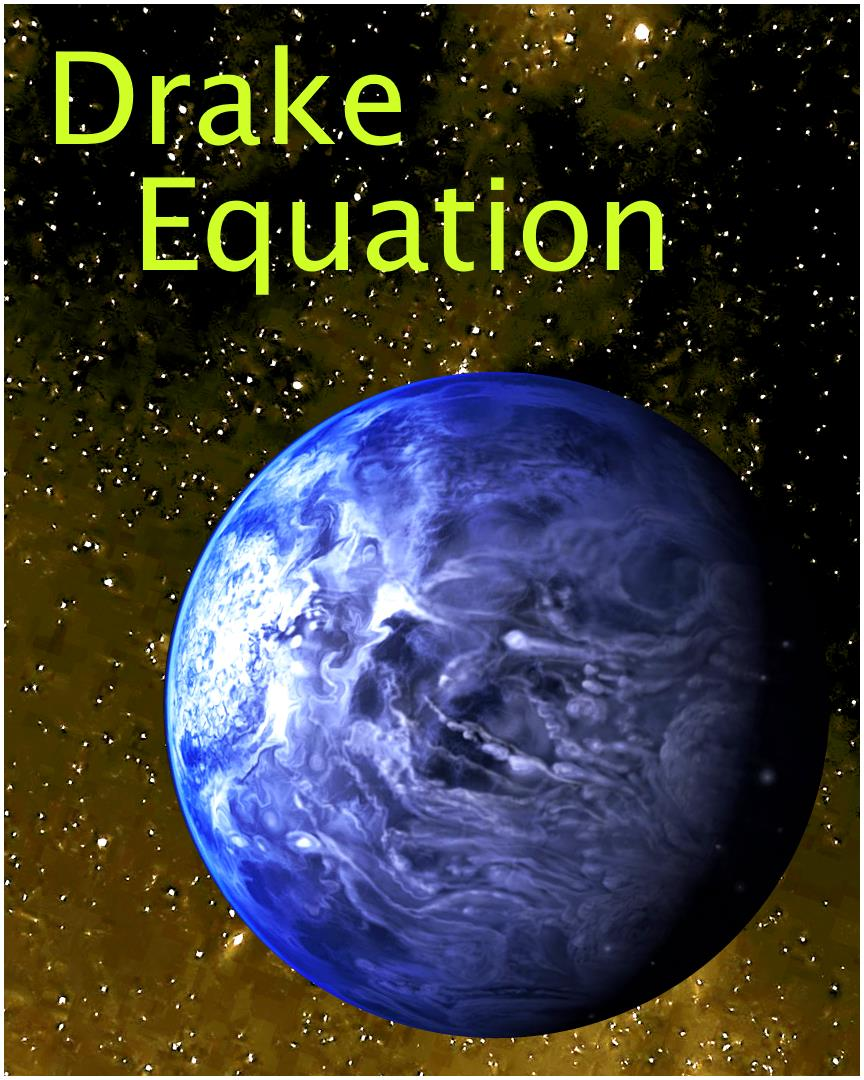
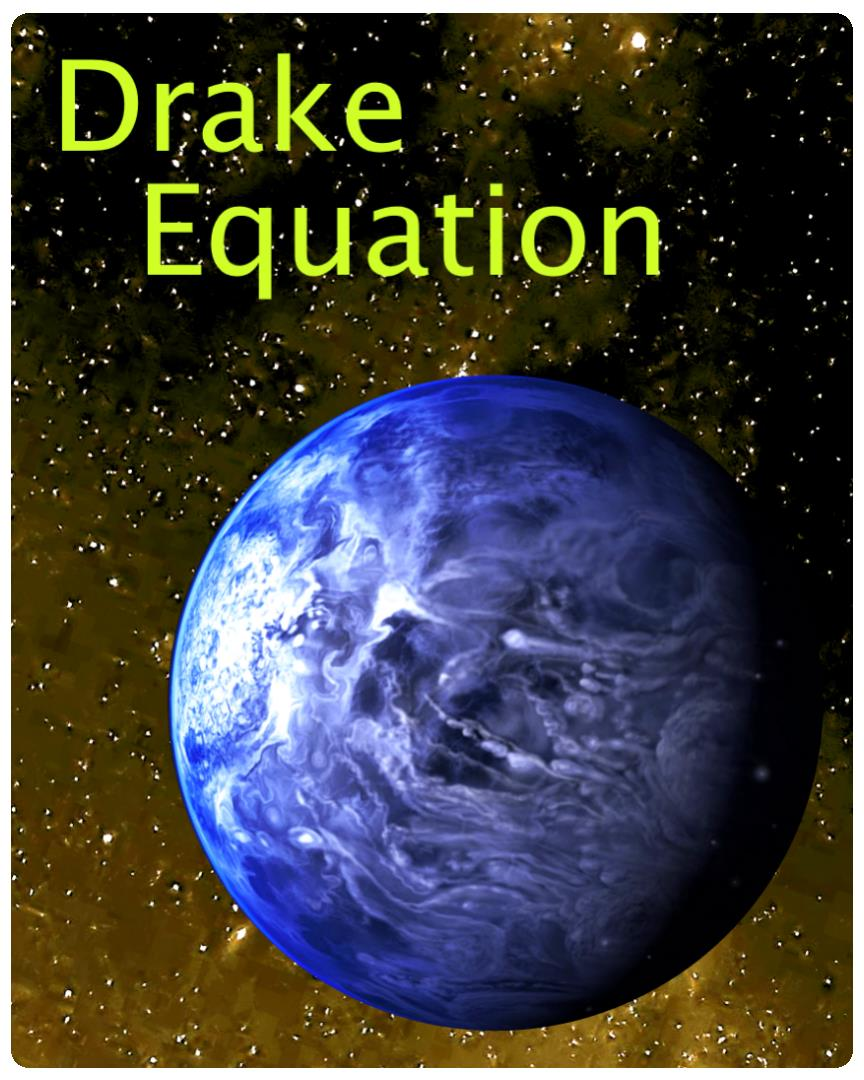
Made pages image for drake equation appear nicer with rounded corners.

diff --git a/pages.html b/pages.html
@@ -39,7 +39,7 @@
     <div class="container-fluid" style="padding:0">
         <div class="row">
             <div class="col-sm-4" style="margin-top: 5%; margin-bottom: 5%">
-                <a href="./drake_equation.html"><img src="images/page_template.jpg" alt="page_template" class="page" /></a>
+                <a href="./drake_equation.html"><img src="images/page_template.gif" alt="page_template" class="page" /></a>
             </div>
             <!--
             <div class="col-sm-4" style="margin-top: 5%; margin-bottom: 5%">
